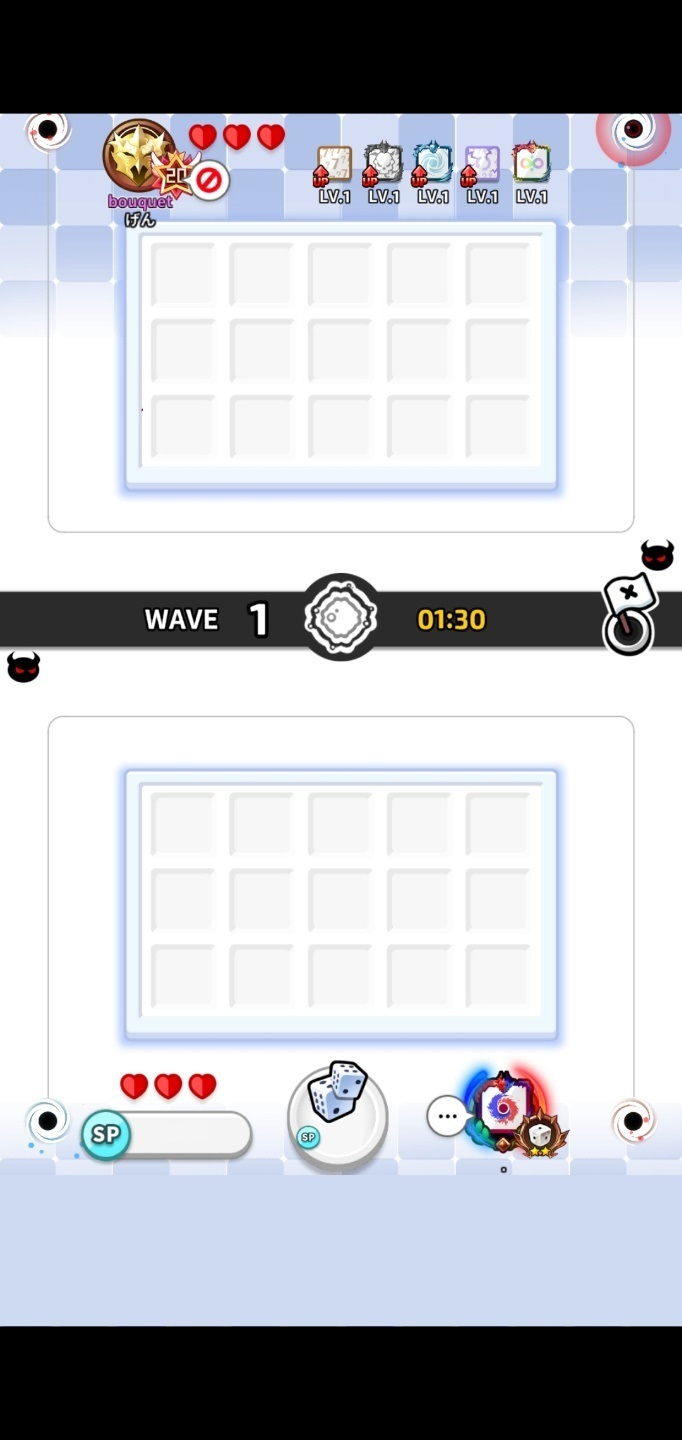
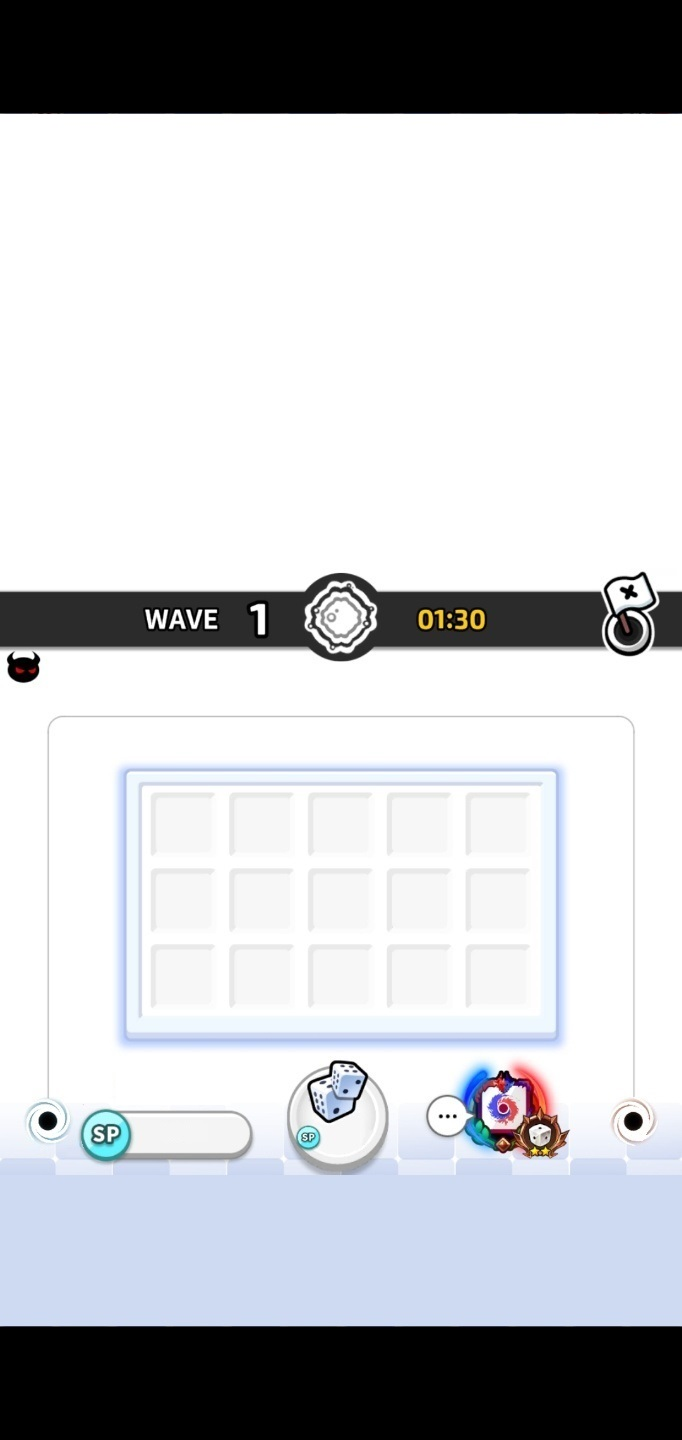
플레이어의 남은 생명 수에 따른 하트 출력 반영

Changed region(s): [[0.0, 0.0625, 1.0, 0.375], [0.1848, 0.7188, 0.3387, 0.7812], [0.9238, 0.375, 0.9853, 0.4062]]

diff --git a/Assets/Player/Player.cs b/Assets/Player/Player.cs
@@ -5,23 +5,49 @@ using UnityEngine.SceneManagement;
 public class Player : MonoBehaviour {    
     public int sp;
     public int spCost;
-    public int heart;
+    public int life;
     
     public GameObject spText;
     public GameObject spCostText;
+    public GameObject [] heart = new GameObject[3];
 
     private void Start() {
         this.sp = 100;
         this.spCost = 10;
-        this.heart = 3;
+        this.life = 3;
     }
 
     private void Update() {
+        // Sp, SpCost 텍스트 갱신
         spText.GetComponent<TextMesh>().text = sp.ToString();
         spCostText.GetComponent<TextMesh>().text = spCost.ToString();
-        
+
+        // 하트 이미지 갱신
+        switch (life) {
+            case 0:
+                heart[0].SetActive(false);
+                heart[1].SetActive(false);
+                heart[2].SetActive(false);
+                break;
+            case 1:
+                heart[0].SetActive(true);
+                heart[1].SetActive(false);
+                heart[2].SetActive(false);
+                break;
+            case 2:
+                heart[0].SetActive(true);
+                heart[1].SetActive(true);
+                heart[2].SetActive(false);
+                break;
+            default:
+                heart[0].SetActive(true);
+                heart[1].SetActive(true);
+                heart[2].SetActive(true);
+                break;
+        }
+
         // 게임 오버 체크
-        if (heart <= 0)
+        if (life <= 0)
             SceneManager.LoadScene("LobbyScene");
     }
 }

diff --git a/Assets/Monsters/Destroyer.cs b/Assets/Monsters/Destroyer.cs
@@ -9,7 +9,7 @@ public class Destroyer : MonoBehaviour {
     private void OnTriggerEnter2D(Collider2D other) {
         if (other.tag == "Monster") {
             other.GetComponent<Monster>().hp = 0;
-            player.GetComponent<Player>().heart -= 1;   // 하트 1 감소
+            player.GetComponent<Player>().life -= 1;   // 하트 1 감소
         }
         if (other.tag == "Skill")
             Destroy(other.gameObject);
